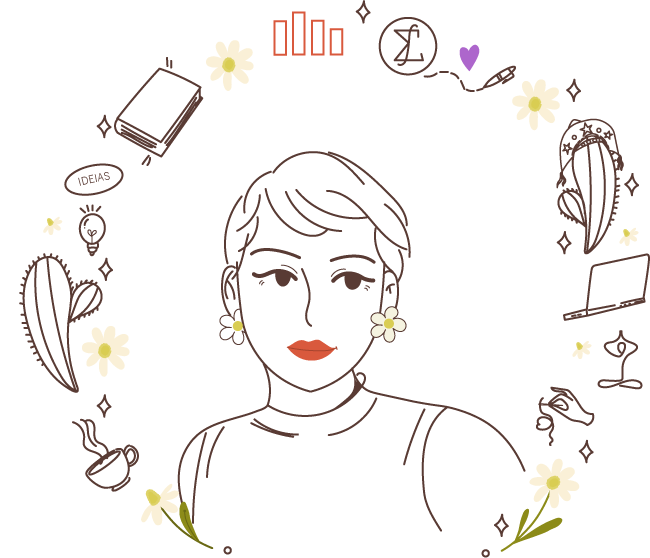
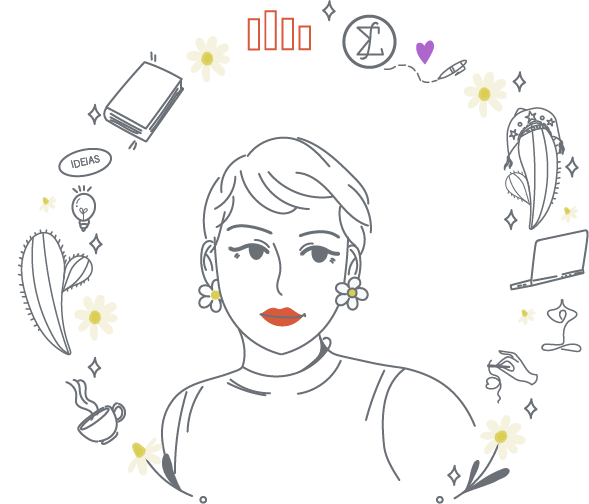
novas cores/temas

diff --git a/content/humanas/bakeoff/index.md b/content/humanas/bakeoff/index.md
@@ -13,7 +13,7 @@ layout: single
 
 ![Marca pessoal](marca-pessoal.png)
 
-### Personal branding
+---
 
 ![Logo marca](logo-marca.png)
 
